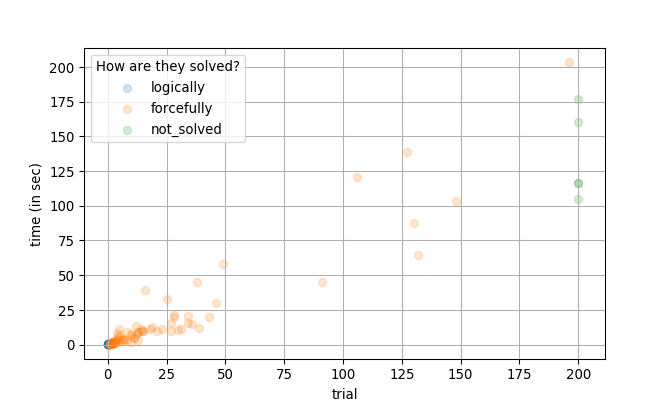
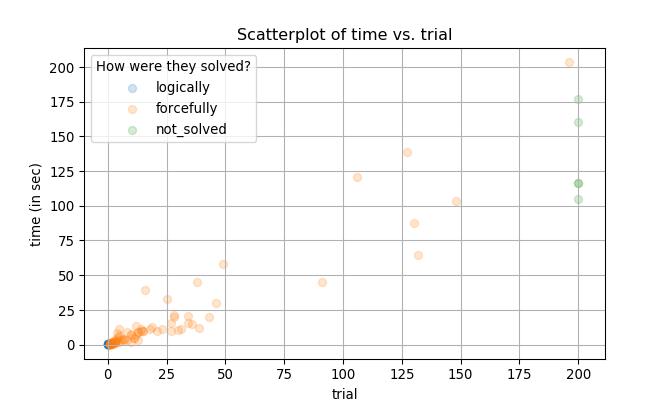
section 2.3 written

Changed region(s): [[0.1875, 0.1489, 0.375, 0.3573], [0.3438, 0.0596, 0.6875, 0.1191]]

diff --git a/projects/2019/sudsoln/analysis.html b/projects/2019/sudsoln/analysis.html
@@ -672,14 +672,113 @@ code span.wa { color: #60a0b0; font-weight: bold; font-style: italic; } /* Warni
 ## solved                                                          
 ## forcefully     83          1             8  22.192771        196</code></pre>
 <p>(<code>total</code> in the table is the number of cases out of 106 puzzles.)</p>
-<p>The most apparent pattern is that both <code>time</code> and <code>trial</code> are extremely right-skewed regardless of the group. This shows that there is no “middle ground”, i.e. the package either solves a puzzle fairly quickly, or it takes a very long time to solve one. The median</p>
+<p>The most apparent pattern is that both <code>time</code> and <code>trial</code> are extremely right-skewed regardless of the group. This shows that there is no “middle ground”, i.e. the package either solved a puzzle fairly quickly, or it took a very long time to solve one. Thus, the median is more reliable than the mean. According to the above table, about 8 trials are required whenever a puzzle requires a brute force to be solved.</p>
+<div class="sourceCode" id="cb8"><pre class="sourceCode python"><code class="sourceCode python"><a class="sourceLine" id="cb8-1" title="1"><span class="co"># Scatterplot: time vs. trial</span></a>
+<a class="sourceLine" id="cb8-2" title="2">fig, ax <span class="op">=</span> plt.subplots()</a>
+<a class="sourceLine" id="cb8-3" title="3"><span class="cf">for</span> solved_how <span class="kw">in</span> [<span class="st">&#39;logically&#39;</span>, <span class="st">&#39;forcefully&#39;</span>, <span class="st">&#39;not_solved&#39;</span>]:</a>
+<a class="sourceLine" id="cb8-4" title="4">    ax.scatter(</a>
+<a class="sourceLine" id="cb8-5" title="5">        x <span class="op">=</span> result_sudsoln.loc[<span class="kw">lambda</span> x: x[<span class="st">&#39;solved&#39;</span>] <span class="op">==</span> solved_how].trial,</a>
+<a class="sourceLine" id="cb8-6" title="6">        y <span class="op">=</span> result_sudsoln.loc[<span class="kw">lambda</span> x: x[<span class="st">&#39;solved&#39;</span>] <span class="op">==</span> solved_how].time,</a>
+<a class="sourceLine" id="cb8-7" title="7">        alpha <span class="op">=</span> <span class="fl">.2</span>,</a>
+<a class="sourceLine" id="cb8-8" title="8">        label <span class="op">=</span> solved_how</a>
+<a class="sourceLine" id="cb8-9" title="9">    )</a>
+<a class="sourceLine" id="cb8-10" title="10">ax.legend(title <span class="op">=</span> <span class="st">&#39;How were they solved?&#39;</span>)</a>
+<a class="sourceLine" id="cb8-11" title="11">ax.grid(<span class="va">True</span>)</a>
+<a class="sourceLine" id="cb8-12" title="12">plt.xlabel(<span class="st">&#39;trial&#39;</span>)</a>
+<a class="sourceLine" id="cb8-13" title="13">plt.ylabel(<span class="st">&#39;time (in sec)&#39;</span>)</a>
+<a class="sourceLine" id="cb8-14" title="14">plt.title(<span class="st">&#39;Scatterplot of time vs. trial&#39;</span>)</a>
+<a class="sourceLine" id="cb8-15" title="15">plt.show()</a></code></pre></div>
 <p><img src="analysis_files/figure-html/scatter1-1.png" width="672" style="display: block; margin: auto;" /></p>
+<p>The scatterplot of <code>time</code> vs. <code>trial</code> shows that the vast majority of puzzles are solved within 50 trials or about a minute. That is, setting a big <code>max_trial</code> in <code>ss.Sudoku.solve()</code> (which leads to a longer running time) will increase a chance of a puzzle getting solved, but not by a large scale after <code>max_trial</code> gets greater than 50.</p>
+<div class="sourceCode" id="cb9"><pre class="sourceCode python"><code class="sourceCode python"><a class="sourceLine" id="cb9-1" title="1"><span class="co"># Lineplot: prob vs. max_trial</span></a>
+<a class="sourceLine" id="cb9-2" title="2">prob_vs_max_trial <span class="op">=</span> {<span class="st">&#39;max_trial&#39;</span>: [], <span class="st">&#39;prob&#39;</span>: []}</a>
+<a class="sourceLine" id="cb9-3" title="3">numer <span class="op">=</span> result_sudsoln.shape[<span class="dv">0</span>]</a>
+<a class="sourceLine" id="cb9-4" title="4"><span class="cf">for</span> attempt <span class="kw">in</span> <span class="bu">range</span>(max_trial <span class="op">+</span> <span class="dv">1</span>):</a>
+<a class="sourceLine" id="cb9-5" title="5">    denom <span class="op">=</span> result_sudsoln<span class="op">\</span></a>
+<a class="sourceLine" id="cb9-6" title="6">        .loc[<span class="kw">lambda</span> x: (x[<span class="st">&#39;trial&#39;</span>] <span class="op">&lt;=</span> attempt) <span class="op">&amp;</span> (x[<span class="st">&#39;is_solved&#39;</span>])]<span class="op">\</span></a>
+<a class="sourceLine" id="cb9-7" title="7">        .total<span class="op">\</span></a>
+<a class="sourceLine" id="cb9-8" title="8">        .<span class="bu">sum</span>()</a>
+<a class="sourceLine" id="cb9-9" title="9">    prob_vs_max_trial[<span class="st">&#39;max_trial&#39;</span>].append(attempt)</a>
+<a class="sourceLine" id="cb9-10" title="10">    prob_vs_max_trial[<span class="st">&#39;prob&#39;</span>].append(denom <span class="op">/</span> numer)</a>
+<a class="sourceLine" id="cb9-11" title="11">prob_vs_max_trial <span class="op">=</span> pd.DataFrame(prob_vs_max_trial)</a>
+<a class="sourceLine" id="cb9-12" title="12"></a>
+<a class="sourceLine" id="cb9-13" title="13">plt.clf()</a>
+<a class="sourceLine" id="cb9-14" title="14">plt.plot(prob_vs_max_trial.max_trial, prob_vs_max_trial.prob)</a>
+<a class="sourceLine" id="cb9-15" title="15">plt.ylim(<span class="dv">0</span>, <span class="dv">1</span>) </a>
+<a class="sourceLine" id="cb9-16" title="16">plt.yticks(np.arange(<span class="dv">0</span>, <span class="fl">1.1</span>, <span class="fl">.1</span>))</a>
+<a class="sourceLine" id="cb9-17" title="17">plt.grid(<span class="va">True</span>)</a>
+<a class="sourceLine" id="cb9-18" title="18">plt.xlabel(<span class="st">&#39;max_trial in ss.Sudoku.solve(max_trial)&#39;</span>)</a>
+<a class="sourceLine" id="cb9-19" title="19">plt.ylabel(<span class="st">&#39;P(getting solved)&#39;</span>)</a>
+<a class="sourceLine" id="cb9-20" title="20">plt.title(<span class="st">&#39;Expected P(getting solved) vs. max_trial&#39;</span>)</a>
+<a class="sourceLine" id="cb9-21" title="21">plt.show()</a></code></pre></div>
+<p><img src="analysis_files/figure-html/line1_real-1.png" width="672" style="display: block; margin: auto;" /></p>
+<p>This plot displays how the expected probability of a puzzle getting solved increases as <code>max_trial</code> argument specified in <code>ss.Sudoku.solve()</code> gets bigger. Notice the plateau starts after 50 <code>max_trial</code>, and stays around the probability of 90%.</p>
+<p>To get the idea of how much more <code>time</code> is required as <code>trial</code> increases, I fit a linear regression model between log-transformed <code>time</code> and <code>trial</code>. In particular, the following model is used: <span class="math display">\[\log(\text{time}) = \beta_0 + \beta_1 \log(\text{trial} + 1) + \varepsilon\]</span> Log-transformations are performed due to a severe right-skewness on both the response and the feature; <code>trial + 1</code> is used because whenever <span class="math inline">\(\text{trial} = 0\)</span>, <span class="math inline">\(\log(\text{trial})\)</span> is undefined, and <span class="math inline">\(\log(\text{trial} + 1)\)</span> becomes exactly <span class="math inline">\(0\)</span>. Model-checking procedure is skipped since this model may need modifications as the package version increases.</p>
+<div class="sourceCode" id="cb10"><pre class="sourceCode python"><code class="sourceCode python"><a class="sourceLine" id="cb10-1" title="1"><span class="co"># Scatterplot: log(time) vs. log(trial + 1)</span></a>
+<a class="sourceLine" id="cb10-2" title="2">X <span class="op">=</span> result_sudsoln.loc[:, [<span class="st">&#39;total&#39;</span>, <span class="st">&#39;trial&#39;</span>]]</a>
+<a class="sourceLine" id="cb10-3" title="3">X.trial <span class="op">=</span> np.log(X.trial <span class="op">+</span> <span class="dv">1</span>)</a>
+<a class="sourceLine" id="cb10-4" title="4">y <span class="op">=</span> result_sudsoln.loc[:, [<span class="st">&#39;time&#39;</span>]]</a>
+<a class="sourceLine" id="cb10-5" title="5">y.time <span class="op">=</span> np.log(y.time)</a>
+<a class="sourceLine" id="cb10-6" title="6">X, y <span class="op">=</span> X.values, y.values</a>
+<a class="sourceLine" id="cb10-7" title="7">betas <span class="op">=</span> np.linalg.inv(X.T <span class="op">@</span> X) <span class="op">@</span> X.T <span class="op">@</span> y</a>
+<a class="sourceLine" id="cb10-8" title="8">model_x <span class="op">=</span> np.linspace(<span class="dv">0</span>, np.<span class="bu">max</span>(X[:, <span class="dv">1</span>]))</a>
+<a class="sourceLine" id="cb10-9" title="9">model_y <span class="op">=</span> betas[<span class="dv">0</span>] <span class="op">+</span> betas[<span class="dv">1</span>] <span class="op">*</span> model_x</a>
+<a class="sourceLine" id="cb10-10" title="10"></a>
+<a class="sourceLine" id="cb10-11" title="11">plt.clf()</a>
+<a class="sourceLine" id="cb10-12" title="12">fig, ax <span class="op">=</span> plt.subplots()</a>
+<a class="sourceLine" id="cb10-13" title="13"><span class="cf">for</span> solved_how <span class="kw">in</span> [<span class="st">&#39;logically&#39;</span>, <span class="st">&#39;forcefully&#39;</span>, <span class="st">&#39;not_solved&#39;</span>]:</a>
+<a class="sourceLine" id="cb10-14" title="14">    ax.scatter(</a>
+<a class="sourceLine" id="cb10-15" title="15">        x <span class="op">=</span> np.log(</a>
+<a class="sourceLine" id="cb10-16" title="16">            result_sudsoln.loc[<span class="kw">lambda</span> x: x[<span class="st">&#39;solved&#39;</span>] <span class="op">==</span> solved_how].trial <span class="op">+</span> <span class="dv">1</span></a>
+<a class="sourceLine" id="cb10-17" title="17">        ),</a>
+<a class="sourceLine" id="cb10-18" title="18">        y <span class="op">=</span> np.log(</a>
+<a class="sourceLine" id="cb10-19" title="19">            result_sudsoln.loc[<span class="kw">lambda</span> x: x[<span class="st">&#39;solved&#39;</span>] <span class="op">==</span> solved_how].time</a>
+<a class="sourceLine" id="cb10-20" title="20">        ),</a>
+<a class="sourceLine" id="cb10-21" title="21">        alpha <span class="op">=</span> <span class="fl">.2</span>,</a>
+<a class="sourceLine" id="cb10-22" title="22">        label <span class="op">=</span> solved_how</a>
+<a class="sourceLine" id="cb10-23" title="23">    )</a>
+<a class="sourceLine" id="cb10-24" title="24">ax.legend(title <span class="op">=</span> <span class="st">&#39;How were they solved?&#39;</span>)</a>
+<a class="sourceLine" id="cb10-25" title="25">ax.grid(<span class="va">True</span>)</a>
+<a class="sourceLine" id="cb10-26" title="26">plt.plot(model_x, model_y, alpha <span class="op">=</span> <span class="fl">.5</span>)</a>
+<a class="sourceLine" id="cb10-27" title="27">plt.xlabel(<span class="st">&#39;log(trial + 1)&#39;</span>)</a>
+<a class="sourceLine" id="cb10-28" title="28">plt.ylabel(<span class="st">&#39;log(time)&#39;</span>)</a>
+<a class="sourceLine" id="cb10-29" title="29">plt.title(<span class="st">&#39;Scatterplot of log(time) vs. log(trial + 1)&#39;</span>)</a>
+<a class="sourceLine" id="cb10-30" title="30">plt.show()</a></code></pre></div>
+<p><img src="analysis_files/figure-html/scatter2-1.png" width="672" style="display: block; margin: auto;" /></p>
+<p>Although I didn’t check whether the model is appropriate, the regression line fits nicely in the scatterplot of <code>log(time)</code> vs. <code>log(trial + 1)</code>. It seems we don’t need to implement a nonlinear model, and need to deal with a fanning effect only.</p>
+<div class="sourceCode" id="cb11"><pre class="sourceCode python"><code class="sourceCode python"><a class="sourceLine" id="cb11-1" title="1"><span class="co"># time vs. trial according to the fitted model</span></a>
+<a class="sourceLine" id="cb11-2" title="2">model_time <span class="op">=</span> <span class="kw">lambda</span> x: np.exp(betas[<span class="dv">0</span>] <span class="op">+</span> betas[<span class="dv">1</span>] <span class="op">*</span> np.log(x <span class="op">+</span> <span class="dv">1</span>))</a>
+<a class="sourceLine" id="cb11-3" title="3">model_trials <span class="op">=</span> np.arange(<span class="dv">201</span>)</a>
+<a class="sourceLine" id="cb11-4" title="4"></a>
+<a class="sourceLine" id="cb11-5" title="5">plt.clf()</a>
+<a class="sourceLine" id="cb11-6" title="6">fig, ax <span class="op">=</span> plt.subplots()</a>
+<a class="sourceLine" id="cb11-7" title="7"><span class="cf">for</span> solved_how <span class="kw">in</span> [<span class="st">&#39;logically&#39;</span>, <span class="st">&#39;forcefully&#39;</span>, <span class="st">&#39;not_solved&#39;</span>]:</a>
+<a class="sourceLine" id="cb11-8" title="8">    ax.scatter(</a>
+<a class="sourceLine" id="cb11-9" title="9">        x <span class="op">=</span> result_sudsoln.loc[<span class="kw">lambda</span> x: x[<span class="st">&#39;solved&#39;</span>] <span class="op">==</span> solved_how].trial,</a>
+<a class="sourceLine" id="cb11-10" title="10">        y <span class="op">=</span> result_sudsoln.loc[<span class="kw">lambda</span> x: x[<span class="st">&#39;solved&#39;</span>] <span class="op">==</span> solved_how].time,</a>
+<a class="sourceLine" id="cb11-11" title="11">        alpha <span class="op">=</span> <span class="fl">.2</span>,</a>
+<a class="sourceLine" id="cb11-12" title="12">        label <span class="op">=</span> solved_how</a>
+<a class="sourceLine" id="cb11-13" title="13">    )</a>
+<a class="sourceLine" id="cb11-14" title="14">ax.legend(title <span class="op">=</span> <span class="st">&#39;How were they solved?&#39;</span>)</a>
+<a class="sourceLine" id="cb11-15" title="15">ax.grid(<span class="va">True</span>)</a>
+<a class="sourceLine" id="cb11-16" title="16">plt.xlabel(<span class="st">&#39;trial&#39;</span>)</a>
+<a class="sourceLine" id="cb11-17" title="17">plt.ylabel(<span class="st">&#39;time (in sec)&#39;</span>)</a>
+<a class="sourceLine" id="cb11-18" title="18">plt.title(<span class="st">&#39;Scatterplot of time vs. trial&#39;</span>)</a>
+<a class="sourceLine" id="cb11-19" title="19">plt.plot(model_trial, model_time(model_trials), alpha <span class="op">=</span> <span class="fl">.5</span>)</a>
+<a class="sourceLine" id="cb11-20" title="20">plt.show()</a></code></pre></div>
+<p><img src="analysis_files/figure-html/scatter3_real-1.png" width="672" style="display: block; margin: auto;" /></p>
+<p>According to the model:</p>
+<ul>
+<li>a sudoku puzzle with a <code>top95</code> or <code>hardest</code> difficulty is expected to be logically solved in about 0.326 seconds</li>
+<li>around 90% of sudoku puzzles with a <code>top95</code> or <code>hardest</code> difficulty is expected to be solved in about 50 attempts (trials), or 33.483 seconds</li>
+<li><code>ss.Sudoku.solve()</code> is expected to terminate in about 168.522 seconds, regardless of whether the method solves a puzzle or not, if used the default setting of <code>max_trial = 200</code></li>
+</ul>
 </div>
 </div>
 <div id="session-info" class="section level1">
 <h1>Session info</h1>
-<div class="sourceCode" id="cb8"><pre class="sourceCode python"><code class="sourceCode python"><a class="sourceLine" id="cb8-1" title="1"><span class="im">import</span> sinfo <span class="co"># ver 0.1.4</span></a>
-<a class="sourceLine" id="cb8-2" title="2">sinfo.sinfo()</a></code></pre></div>
+<div class="sourceCode" id="cb12"><pre class="sourceCode python"><code class="sourceCode python"><a class="sourceLine" id="cb12-1" title="1"><span class="im">import</span> sinfo <span class="co"># ver 0.1.4</span></a>
+<a class="sourceLine" id="cb12-2" title="2">sinfo.sinfo()</a></code></pre></div>
 <pre><code>## -----
 ## matplotlib   3.1.1
 ## numpy        1.17.0
@@ -690,7 +789,7 @@ code span.wa { color: #60a0b0; font-weight: bold; font-style: italic; } /* Warni
 ## Windows-10-10.0.18362-SP0
 ## 4 logical CPU cores, Intel64 Family 6 Model 78 Stepping 3, GenuineIntel
 ## -----
-## Session information updated at 2019-08-20 03:19</code></pre>
+## Session information updated at 2019-08-20 19:25</code></pre>
 </div>
 </section>
 
